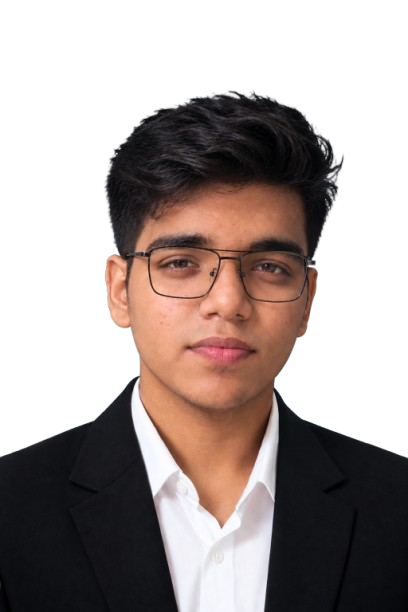
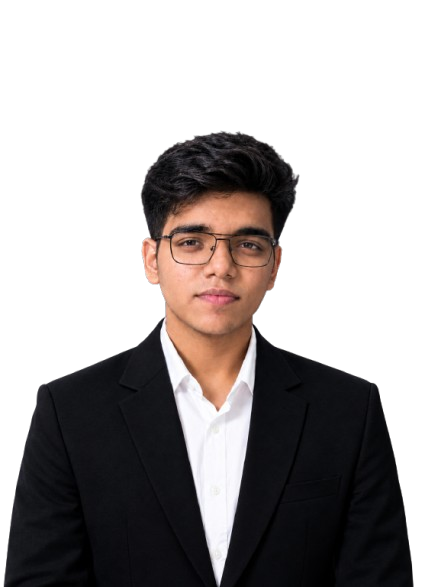
Update VLookUp details and Adarsh portrait

diff --git a/frontend/lib/eventsData.ts b/frontend/lib/eventsData.ts
@@ -810,7 +810,7 @@ export const EVENTS: EventItem[] = [
     trackId: "track-b",
     trackName: "TRACK B",
     shortDesc: "Data Analytics",
-    fullDesc: "XAVITECH 2026 Data Analytics is a team competition for pairs. Participants should know Excel and Power BI. The event is open to Class 7–12, undergraduate, and postgraduate students over 16 years old.",
+    fullDesc: "XAVITECH 2026 VLookUp is a team-based Data Analytics competition for pairs, requiring proficiency in Excel and Power BI. The event is open to Class 7–12, undergraduate, and postgraduate students.",
     date: "31st Oct",
     time: "TBA",
     prize: "Exciting Gifts & Prizes",

diff --git a/frontend/components/sections/contact/PersonCard.tsx b/frontend/components/sections/contact/PersonCard.tsx
@@ -393,7 +393,8 @@ export default function PersonCard({
                 loading="lazy"
                 decoding="async"
                 onError={() => setAttempt((n) => n + 1)}
-                className="absolute inset-0 h-full w-full object-cover object-top"
+                className="absolute inset-0 h-full w-full object-cover"
+                style={{ objectPosition: person.name === "Adarsh Sinha" ? "center 75%" : "center top" }}
               />
             ) : (
               <Silhouette stroke={a.stroke} />
